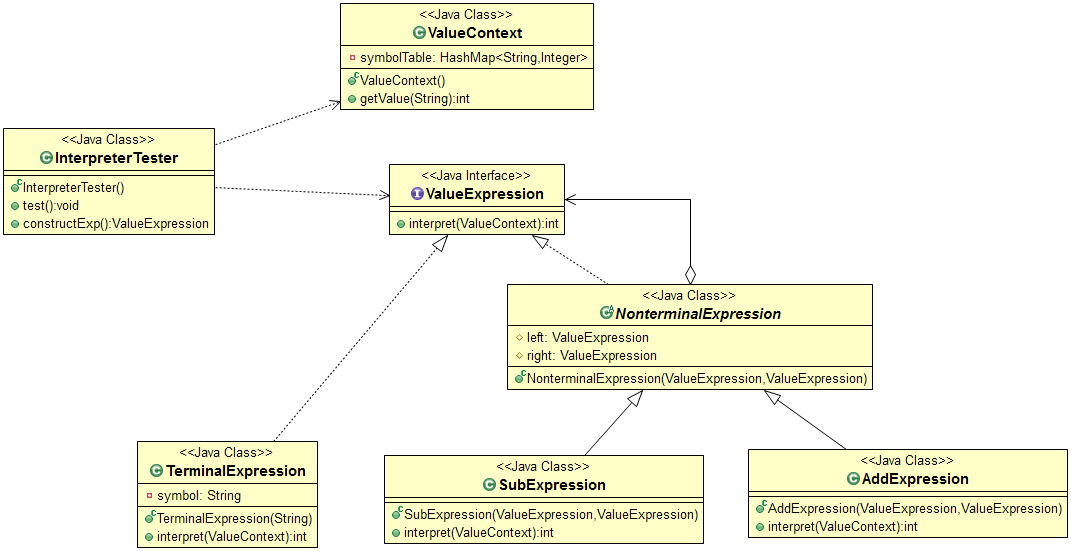
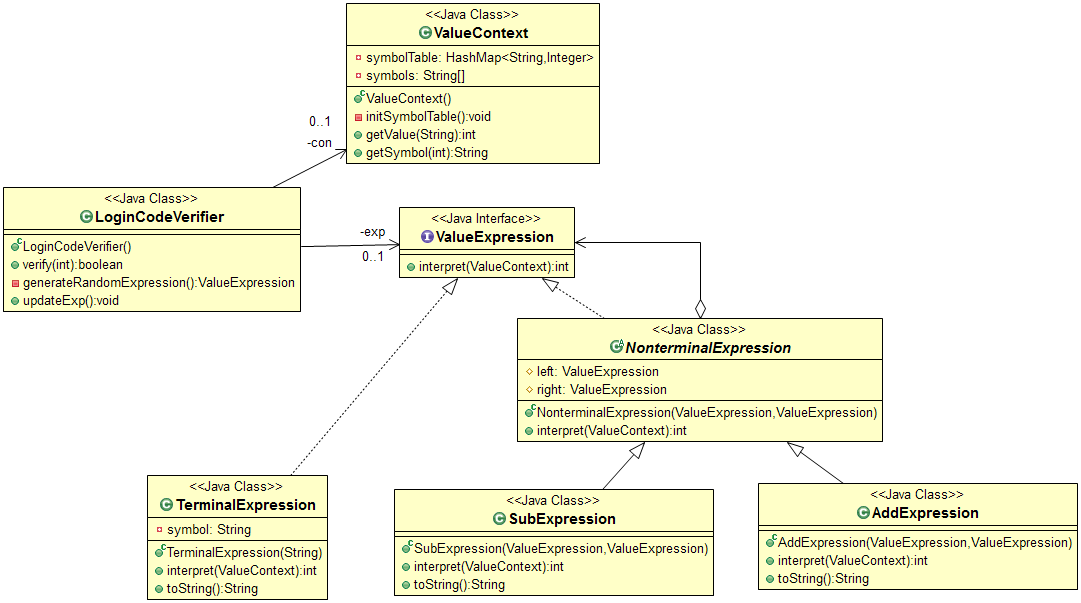
update interpret pattern

Changed region(s): [[0.0, 0.0, 1.0, 1.0], [0.1232, 0.7713, 0.3081, 1.0], [0.3081, 0.6479, 0.3389, 0.6788]]

diff --git a/MaoMao/src/ustc/maomao/patterns/interpreter/LoginCodeVerifier.java b/MaoMao/src/ustc/maomao/patterns/interpreter/LoginCodeVerifier.java
@@ -1,0 +1,60 @@
+package ustc.maomao.patterns.interpreter;
+
+import java.util.Random;
+
+/**
+ * @author Keene. Mail: waterzhj@ustc.edu.cn
+ * 
+ *         该代码遵循MIT License, 详细见 https://mit-license.org/
+ * 
+ *         Copyright {2017} {Keene}
+ * 
+ *         designed by Keene, implemented by {Keene}
+ * 
+ *         验证码识别类
+ * 
+ */
+public class LoginCodeVerifier {
+
+	private ValueExpression exp;// 目标表达式
+	private ValueContext con;// 表达式上下文
+
+	public LoginCodeVerifier() {
+		con = new ValueContext();// 初始化表达式上下文
+		generateRandomExpression();
+	}
+
+	/**
+	 * 验证用户输入值与表达式计算结果是否一致
+	 * 
+	 * @param value
+	 * @return
+	 */
+	public boolean verify(int value) {
+		int expValue = exp.interpret(con);
+		System.out.println("输入的验证码："+value);
+		return value == expValue;
+	}
+
+	/**
+	 * 随机生成表达式
+	 * @return 已生成的表达式
+	 */
+	private ValueExpression generateRandomExpression() {
+		Random r = new Random();
+		exp=new AddExpression(
+				new SubExpression(new TerminalExpression(con.getSymbol(r.nextInt(10))),
+						new TerminalExpression(con.getSymbol(r.nextInt(5)))),
+				new TerminalExpression(con.getSymbol(r.nextInt(9))));
+		System.out.println("表达式："+exp.toString());
+		return exp;
+	}
+	
+	/**
+	 * 刷新表达式
+	 */
+	public void updateExp(){
+		generateRandomExpression();
+	}
+
+}

diff --git a/MaoMao/src/ustc/maomao/patterns/interpreter/ValueContext.java b/MaoMao/src/ustc/maomao/patterns/interpreter/ValueContext.java
@@ -1,6 +1,7 @@
 package ustc.maomao.patterns.interpreter;
 
 import java.util.HashMap;
+import java.util.Set;
 
 /**
  * @author Keene. Mail: waterzhj@ustc.edu.cn
@@ -15,9 +16,19 @@ import java.util.HashMap;
  * 
  */
 public class ValueContext {
+
 	private HashMap<String, Integer> symbolTable = new HashMap<String, Integer>();// 符号表
+	private String[] symbols = new String[10];// 符号数组
 
 	public ValueContext() {
+		initSymbolTable();
+		symbolTable.keySet().toArray(symbols);
+	}
+
+	/**
+	 * 初始化符号表
+	 */
+	private void initSymbolTable() {
 		symbolTable.put("零", 0);
 		symbolTable.put("壹", 1);
 		symbolTable.put("贰", 2);
@@ -45,4 +56,19 @@ public class ValueContext {
 		}
 		return value;
 	}
+
+	/**
+	 * 获取符号
+	 * 
+	 * @param index
+	 *            符号索引
+	 * @return 符号
+	 */
+	public String getSymbol(int index) {
+		if (index < 0 || index > 9) {
+			index = 0;
+		}
+		return symbols[index];
+	}
+
 }

diff --git a/MaoMao/src/ustc/maomao/patterns/interpreter/InterpreterTester.java b/MaoMao/src/ustc/maomao/patterns/interpreter/InterpreterTester.java
@@ -1,5 +1,7 @@
 package ustc.maomao.patterns.interpreter;
 
+import java.util.Random;
+
 import ustc.maomao.patterns.support.PatternTester;
 
 /**
@@ -23,21 +25,12 @@ public class InterpreterTester implements PatternTester {
 	 */
 	@Override
 	public void test() {
-
-		ValueContext con = new ValueContext();//构造值上下文
-
-		ValueExpression exp = constructExp();//获取已构造的表达式
-
-		System.out.println(exp.interpret(con));
-	}
-
-	/**
-	 * 构造表达式
-	 * @return 表达式
-	 */
-	public ValueExpression constructExp() {		
-		return new AddExpression(new AddExpression(new TerminalExpression("玖"), new TerminalExpression("肆")),
-				new TerminalExpression("伍"));
+		LoginCodeVerifier verifier = new LoginCodeVerifier();
+		Random r=new Random();
+		while(!verifier.verify(r.nextInt(10))){
+			verifier.updateExp();			
+		}
+		System.out.println("验证码正确！");
 	}
 
 }

diff --git a/MaoMao/src/ustc/maomao/patterns/interpreter/NonterminalExpression.java b/MaoMao/src/ustc/maomao/patterns/interpreter/NonterminalExpression.java
@@ -18,4 +18,13 @@ public abstract class NonterminalExpression implements ValueExpression{
 		left=lexp;
 		right=rexp;
 	}
+	/* (non-Javadoc)
+	 * @see ustc.maomao.patterns.interpreter.ValueExpression#interpret(ustc.maomao.patterns.interpreter.ValueContext)
+	 */
+	@Override
+	public int interpret(ValueContext con) {
+		// TODO Auto-generated method stub
+		return 0;
+	}	
+	
 }

diff --git a/MaoMao/src/ustc/maomao/patterns/interpreter/AddExpression.java b/MaoMao/src/ustc/maomao/patterns/interpreter/AddExpression.java
@@ -31,5 +31,11 @@ public class AddExpression extends NonterminalExpression {
 		// TODO Auto-generated method stub
 		return left.interpret(con)+right.interpret(con);
 	}
+	
+	@Override
+	public String toString() {
+		// TODO Auto-generated method stub
+		return left.toString()+"+"+right.toString();
+	}
 
 }

diff --git a/MaoMao/src/ustc/maomao/patterns/interpreter/SubExpression.java b/MaoMao/src/ustc/maomao/patterns/interpreter/SubExpression.java
@@ -31,5 +31,11 @@ public class SubExpression extends NonterminalExpression {
 		// TODO Auto-generated method stub
 		return left.interpret(con)-right.interpret(con);
 	}
+	
+	@Override
+	public String toString() {
+		// TODO Auto-generated method stub
+		return left.toString()+"-"+right.toString();
+	}
 
 }

diff --git a/MaoMao/src/ustc/maomao/patterns/interpreter/TerminalExpression.java b/MaoMao/src/ustc/maomao/patterns/interpreter/TerminalExpression.java
@@ -31,5 +31,11 @@ public class TerminalExpression implements ValueExpression {
 	public int interpret(ValueContext con) {		
 		return con.getValue(symbol);
 	}
+	
+	@Override
+	public String toString() {
+		// TODO Auto-generated method stub
+		return symbol;
+	}
 
 }
